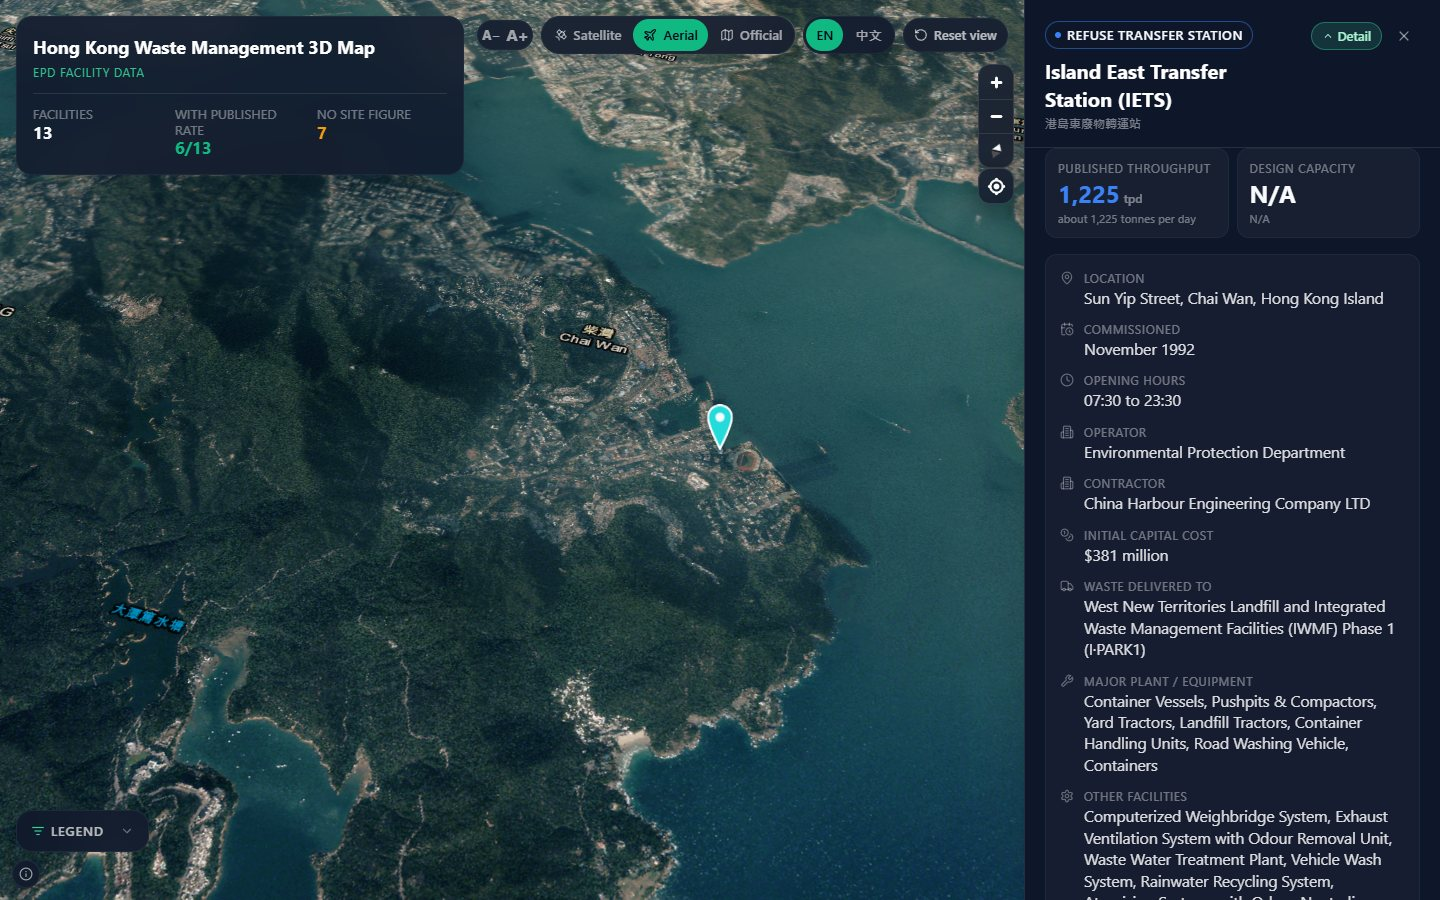
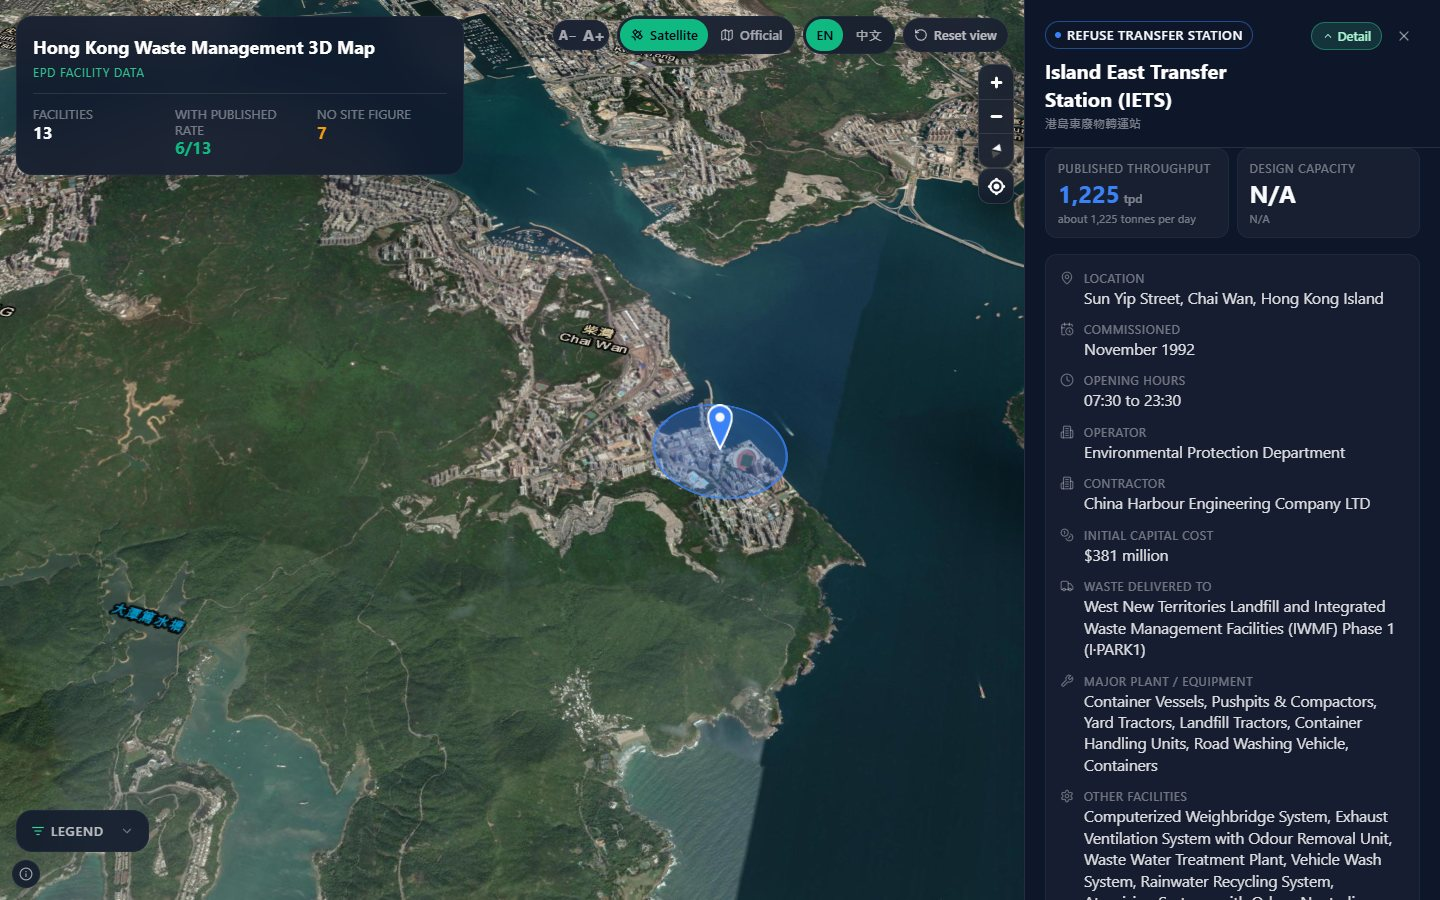
Fix the blurry basemap: pull Esri imagery one zoom level deeper
The map looked blurry because Esri's World Imagery over Hong Kong is two
different datasets. z11-z12 are a coarse mosaic — a 12KB tile for the whole
harbour, visibly mushy with tile-aligned seams — while z13 and deeper is
genuine high-resolution aerial photography. The opening view sat exactly on
that boundary and pulled z11/z12.

The imagery source now declares a 128px tileSize while the service still
serves 256px images. MapLibre chooses the tile zoom from the declared tileSize,
so halving it makes the map ask one level deeper (z13/z14 at the same camera)
and draw each 256px image into half the screen area — a 2x supersampled
basemap. Verified with 1:1 crops over Kowloon. It costs roughly 3x the tile
requests (1.73MB -> 5.46MB for the opening view, then browser-cached), which is
worth it for the style's whole purpose. Only the imagery is nudged; the label
layer keeps its own zoom.

The black-point and contrast fix for the z10/z11 near-black patches is now
zoom-interpolated and fades to zero by z12.5. It was itself part of the
problem: lifting the black point and flattening contrast on good imagery is
exactly what makes it read as washed out and soft, and every zoom the app now
opens at is past that point.

Also probed and rejected the Lands Department's own `imagery` layer — official
Hong Kong aerial photography, sharper still, but PNG-only at ~180KB a tile,
around 20MB per view.

verify-browser.mjs asserts the opening view pulls imagery at z13 or deeper so
[…]

diff --git a/src/components/map/mapStyles.ts b/src/components/map/mapStyles.ts
@@ -27,19 +27,18 @@ import type { StyleSpecification } from "maplibre-gl";
 export type MapStyleId = "official" | "satellite" | "aerial";
 
 /**
- * The Lands Department's own aerial photography is the default.
+/**
+ * Esri is the default, with the tile-zoom nudge below.
  *
- * Esri's World Imagery over Hong Kong is a multi-date mosaic: it carries
- * visible cloud shadows (measured over the sea south-west of Lamma, Esri reads
- * ~31 luminance where the Lands Department's survey reads ~78 across the same
- * tiles) and hard tile seams, and the water gets darker again at z14, which is
- * what made the map look like it was flashing when a camera move crossed a tile
- * level. LandsD is one agency's survey, so it is consistent and shadow-free.
- * It costs more — PNG only, ~161 KB a tile — but with the opening view pulling
- * a single tile level the load is comparable, and the imagery is the point of
- * the satellite view. Esri stays available as the lighter "Satellite" option.
+ * The Lands Department layer is the better imagery — official, and one agency's
+ * survey, so no cloud shadows or mosaic seams — but it is served as PNG at
+ * ~161 KB a tile. Measured on a facility switch, the map sat on bare background
+ * for over a second waiting for the new level, which is exactly the "flashing
+ * black page" complaint. Esri's tiles are ~10 KB, so the same move keeps the
+ * previous level on screen until the next one lands. "Aerial" stays available
+ * for when the cleaner imagery matters more than the wait.
  */
-export const DEFAULT_MAP_STYLE: MapStyleId = "aerial";
+export const DEFAULT_MAP_STYLE: MapStyleId = "satellite";
 
 export type MapLang = "en" | "zh";
 
@@ -115,7 +114,27 @@ export function satelliteStyle(): StyleSpecification {
         tiles: [
           "https://server.arcgisonline.com/ArcGIS/rest/services/World_Imagery/MapServer/tile/{z}/{y}/{x}",
         ],
-        tileSize: 256,
+        /**
+         * Declared 128, though the service serves 256px images.
+         *
+         * Esri's World Imagery mosaic over Hong Kong is two different datasets:
+         * z11-z12 are a coarse, visibly mushy layer (a 12KB tile for the whole
+         * harbour), while z13 and deeper are genuine high-resolution aerial
+         * photography (the same area is crisp — individual buildings, piers and
+         * boats). The opening view sits right on that boundary and used to pull
+         * z11/z12, which is why the map read as blurry.
+         *
+         * MapLibre picks the tile zoom from the declared `tileSize`, so halving
+         * it makes the map ask for one level deeper — z13/z14 at the same
+         * camera — and draw each 256px image into half the screen area. The
+         * result is a 2x supersampled basemap: measurably sharper, at ~3x the
+         * tile requests (1.7 MB → 5.5 MB for the opening view, then cached).
+         * That trade is worth it here; the imagery is the whole point of the
+         * satellite style.
+         *
+         * Only the imagery is nudged — the label layer stays on its own zoom.
+         */
+        tileSize: 128,
         maxzoom: 19,
         attribution: ESRI_ATTRIBUTION,
       },
@@ -132,7 +151,13 @@ export function satelliteStyle(): StyleSpecification {
       {
         id: "background",
         type: "background",
-        paint: { "background-color": "#0b1220" },
+        // Dark slate rather than near-black. The background is what shows
+        // through for the few hundred milliseconds a camera move leaves a tile
+        // unsupplied, and at #0b1220 that read as a black flash — its luminance
+        // is ~17.5, and a frame captured mid-switch measured 18.5. #1e293b is
+        // ~44: still dark enough to sit behind the imagery, but a tile miss
+        // reads as "loading" instead of "broken".
+        paint: { "background-color": "#1e293b" },
       },
       {
         id: "satellite",
@@ -148,15 +173,17 @@ export function satelliteStyle(): StyleSpecification {
            *   z11  mean luminance 54.8, 18.6% near-black pixels
            *   z12  mean luminance 68-85, 0.1-0.9% near-black pixels
            *
-           * The default view renders z11 tiles, so those near-black patches read
-           * as large "shadows" across the map with tile-aligned edges. Raising
-           * the black point and easing contrast removes them at every zoom
-           * without washing the imagery out.
+           * Those near-black patches read as large "shadows" with tile-aligned
+           * edges, so the black point is raised and contrast eased to remove
+           * them. It has to fade out by z12.5, though: lifting the black point
+           * and flattening contrast on good imagery is exactly what makes it
+           * look washed out and soft, and every zoom the app now opens at is
+           * past that point. Keyed on camera zoom, not tile zoom.
            */
-          "raster-brightness-min": 0.16,
+          "raster-brightness-min": ["interpolate", ["linear"], ["zoom"], 10, 0.16, 12.5, 0],
           "raster-brightness-max": 1,
-          "raster-contrast": -0.15,
-          "raster-saturation": 0.05,
+          "raster-contrast": ["interpolate", ["linear"], ["zoom"], 10, -0.15, 12.5, 0],
+          "raster-saturation": ["interpolate", ["linear"], ["zoom"], 10, 0.05, 12.5, 0],
         },
       },
       {
@@ -211,15 +238,25 @@ export function aerialStyle(): StyleSpecification {
       {
         id: "background",
         type: "background",
-        paint: { "background-color": "#0b1220" },
+        // Dark slate rather than near-black. The background is what shows
+        // through for the few hundred milliseconds a camera move leaves a tile
+        // unsupplied, and at #0b1220 that read as a black flash — its luminance
+        // is ~17.5, and a frame captured mid-switch measured 18.5. #1e293b is
+        // ~44: still dark enough to sit behind the imagery, but a tile miss
+        // reads as "loading" instead of "broken".
+        paint: { "background-color": "#1e293b" },
       },
       {
         id: "aerial",
         type: "raster",
         source: "imagery",
-        // A short fade rather than none: a camera move crosses tile levels, and
-        // an instant swap is what made the map look like it was flashing.
-        paint: { "raster-fade-duration": 250 },
+        // No fade. A cross-fade between tile levels sounds smoother, but it is
+        // measurably worse here: with 250ms set, a frame 140ms into a facility
+        // switch read 7/255 mean brightness — the old tiles fade out before the
+        // (slower, ~160KB) Lands Department tiles arrive, so the map goes black.
+        // With no fade the old tiles stay until the new ones land, and the same
+        // frame read 48.
+        paint: { "raster-fade-duration": 0 },
       },
       {
         id: "places",

diff --git a/README.md b/README.md
@@ -92,14 +92,13 @@ a matter of dropping its export into `data/` and re-running the ingest.
 ## Features
 
 - 3D pillars via MapLibre GL + deck.gl, with a pitch/bearing view of Hong Kong.
-- Three map styles, **no API keys required**: the Lands Department's own aerial
-  photography (the default — clean and official, no cloud shadows or mosaic
-  seams), Esri World Imagery (lighter, but a multi-date mosaic) and the Lands
-  Department official map, whose labels switch language with the UI. Setting
-  `NEXT_PUBLIC_MAPBOX_TOKEN` optionally upgrades the satellite slot to Mapbox
-  `satellite-streets-v12`. The map opens at the zoom the framing settles on
-  rather than panning out to the whole region and back, which keeps the opening
-  tile load to a single zoom level.
+- Two map styles, **no API keys required**: Esri World Imagery (default) and
+  the Lands Department official map, whose labels switch language with the UI.
+  Setting `NEXT_PUBLIC_MAPBOX_TOKEN` optionally upgrades the satellite slot to
+  Mapbox `satellite-streets-v12`. The imagery source declares a 128px tile size
+  so the map pulls one zoom level deeper than the camera — Esri's Hong Kong
+  mosaic is coarse at z11–z12 and real aerial photography from z13 — which
+  roughly triples the opening tile load for a visibly sharper basemap.
 - Category filter chips (All / Landfills / RTS / Parks) and a legend with
   per-category counts. Both drive the same state, so they can never disagree.
 - "Reported throughput by facility" ranking, highest first, with the seven OITF
